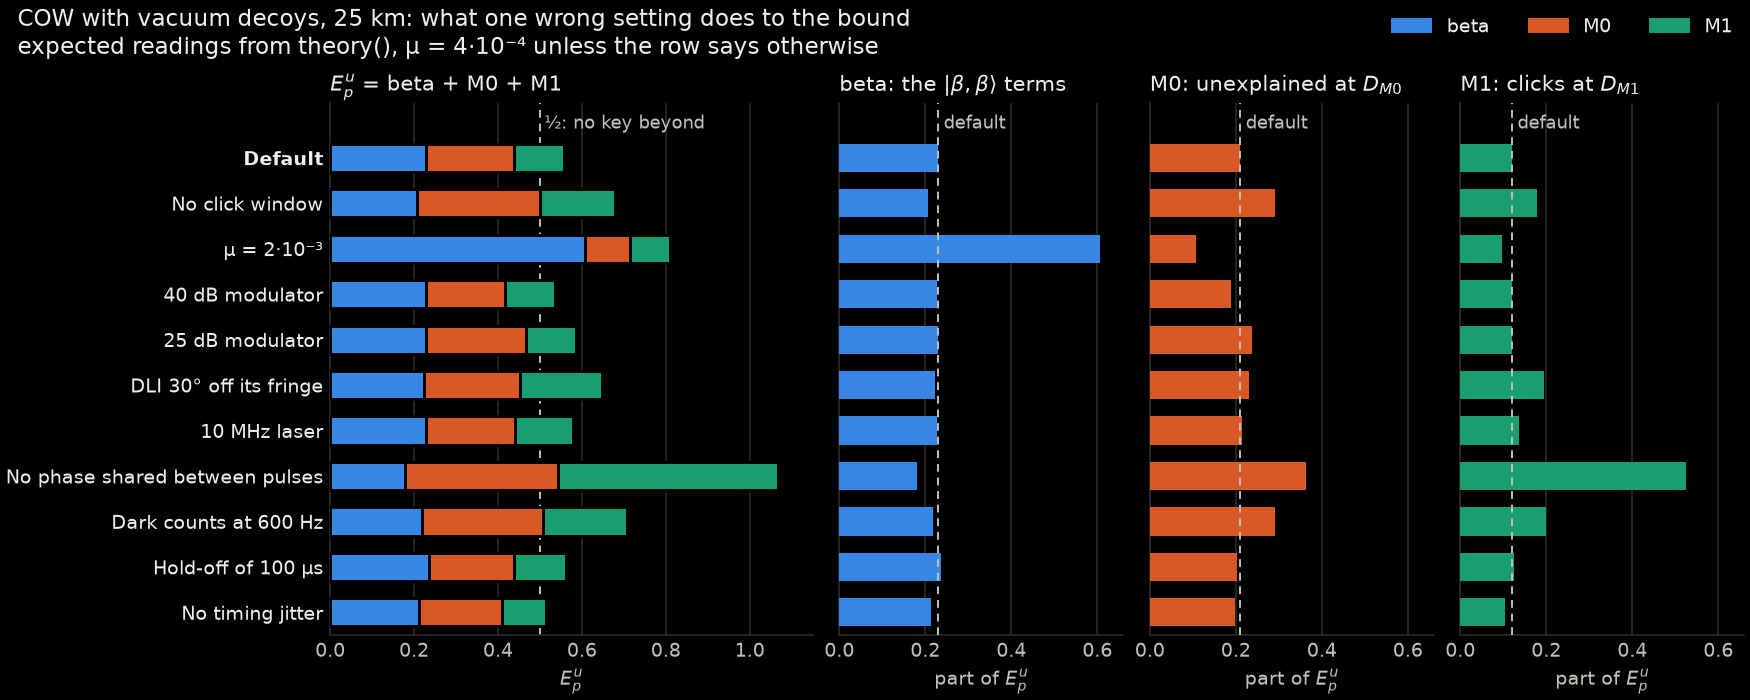
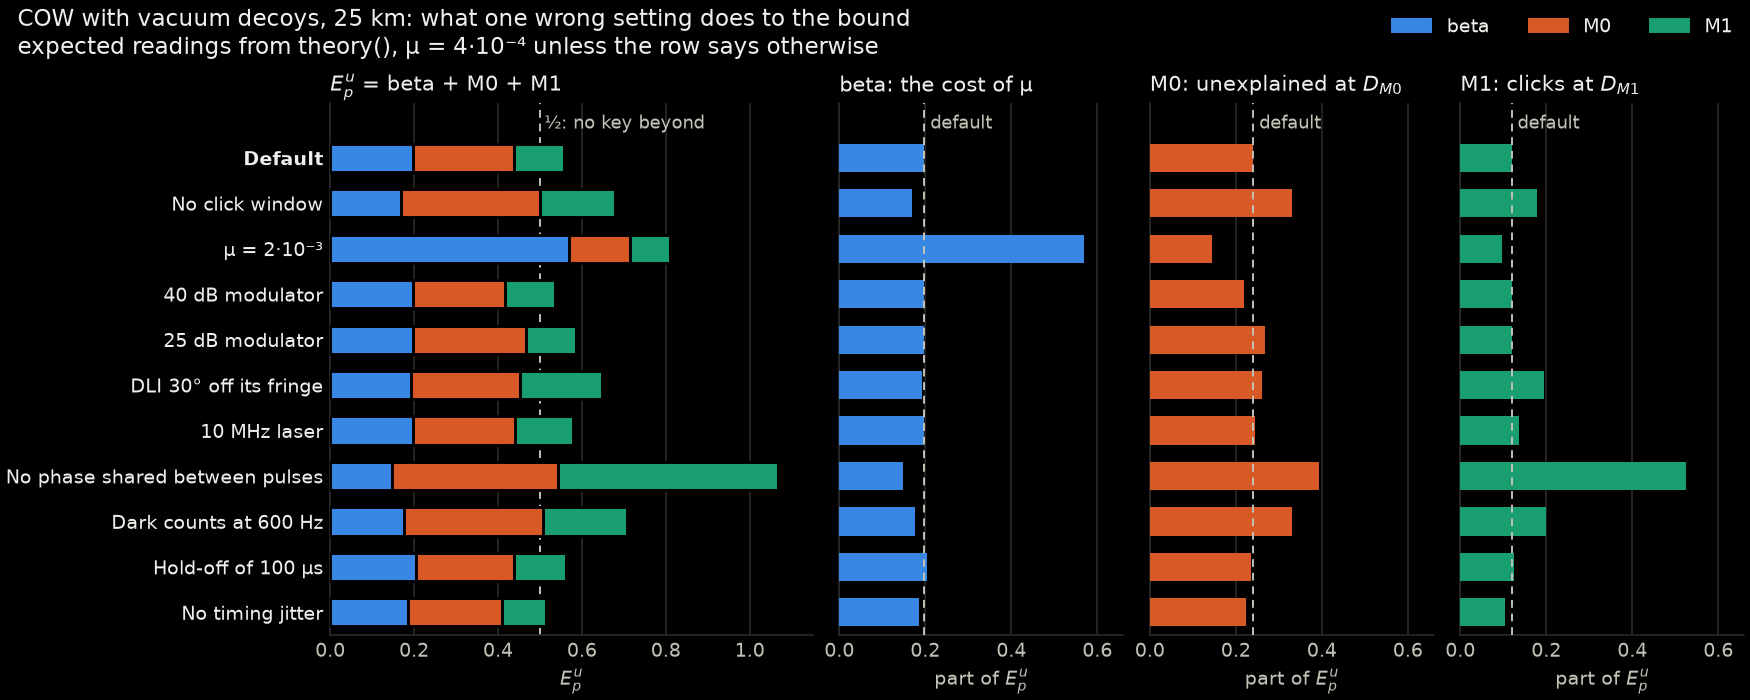
refactor(cow_vacuum): count the |β,β⟩–|0,0⟩ cross term at D_M0 in M0

diff --git a/examples/cow_vacuum/bound.py b/examples/cow_vacuum/bound.py
@@ -79,13 +79,18 @@ def phase_error(mu: float, g: Gains) -> float:
 def terms(mu: float, g: Gains) -> dict[str, float]:
     """E_p^u split by what sets each part of Eq. (7); the three add up to it.
 
-    * ``"beta"``: the |β,β⟩ terms, bounded with Q_ββ ≤ 1. Too high a μ for the
-      transmittance shows here.
+    * ``"beta"``: |β,β⟩'s own gain, bounded with Q_ββ ≤ 1, and its cross term with
+      |α,α⟩ at D_M0. Too high a μ for the transmittance shows here.
     * ``"M0"``: what the |α,α⟩ and |0,0⟩ gains at D_M0 leave unexplained of a single
-      pulse's. A modulator's leak (through Q_00^M0), lost interference and dark counts
-      show here.
-    * ``"M1"``: |α,α⟩ and |0,0⟩ clicks at D_M1, which should be dark: the laser's phase
-      noise, the DLI's phase and dark counts show here.
+      pulse's, and the cross term of |β,β⟩ with |0,0⟩ there. A modulator's leak
+      (through Q_00^M0), lost interference and dark counts show here.
+    * ``"M1"``: |α,α⟩ and |0,0⟩ clicks at D_M1, which should be dark, and their cross
+      terms with |β,β⟩: the laser's phase noise, the DLI's phase and dark counts show
+      here.
+
+    The split follows the fixes. On a perfect bench (no leak, no dark counts, full
+    interference) ``M0`` and ``M1`` go to zero, and ``beta`` is what is left: the cost
+    of μ at this transmittance.
     """
     den = 2 * (sum(g.q0a) + sum(g.qa0))
     if not den:
@@ -95,8 +100,8 @@ def terms(mu: float, g: Gains) -> dict[str, float]:
     aa0, aa1 = math.sqrt(g.qaa[0]), math.sqrt(g.qaa[1])
     v0, v1 = math.sqrt(g.q00[0]), math.sqrt(g.q00[1])
     return dict(
-        beta=nm * (e * nm / 4 + e * aa0 + v0) / den,
-        M0=(2 * (g.q0a[0] + g.qa0[0]) - (grow * aa0 - fall * v0) ** 2) / den,
+        beta=nm * e * (nm / 4 + aa0) / den,
+        M0=(2 * (g.q0a[0] + g.qa0[0]) - (grow * aa0 - fall * v0) ** 2 + nm * v0) / den,
         M1=((grow * aa1 + fall * v1) ** 2 + nm * (e * aa1 + v1)) / den,
     )
 

diff --git a/tests/test_cow_vacuum.py b/tests/test_cow_vacuum.py
@@ -405,8 +405,8 @@ def test_the_default_operating_point():
     assert th["E_p^u"] == pytest.approx(0.557, abs=0.001)
     assert th["E_b"] == pytest.approx(0.0132, abs=1e-4)
     assert th["Q"] == pytest.approx(8.35e-6, rel=0.01)
-    assert th["terms"]["beta"] == pytest.approx(0.229, abs=0.001)
-    assert th["terms"]["M0"] == pytest.approx(0.209, abs=0.001)
+    assert th["terms"]["beta"] == pytest.approx(0.198, abs=0.001)
+    assert th["terms"]["M0"] == pytest.approx(0.240, abs=0.001)
     assert th["terms"]["M1"] == pytest.approx(0.119, abs=0.001)
     assert th["spill"] == (cv.jitter_spill(200e-12, 0.5e-9),) * 3
     assert th["coherence"] == pytest.approx(math.exp(-math.pi * 1e6 / 1e9))
@@ -547,6 +547,16 @@ def test_settings_show_in_the_terms_of_the_bound():
     free = expected(cv.COWParams(dead_time=0.0))
     assert longer["Q"] < base["Q"] < 0.85 * free["Q"]
     assert abs(longer["E_p^u"] - free["E_p^u"]) < 0.02
+
+
+def test_a_perfect_bench_leaves_only_beta():
+    # the modulator at its limit, a laser of no width, quiet and sharp detectors
+    p = cv.COWParams(extinction_db=80.0, linewidth=0.0, dead_time=0.0)
+    perfect = expected(p, dark_count_rate=0.0, timing_jitter=0.0)
+    assert perfect["terms"]["M0"] == pytest.approx(0.0, abs=1e-3)
+    assert perfect["terms"]["M1"] == pytest.approx(0.0, abs=1e-6)
+    # the cost of μ at this transmittance, the same as on the default bench
+    assert perfect["terms"]["beta"] == pytest.approx(0.198, abs=0.001)
 
 
 def test_what_the_click_window_buys():

diff --git a/examples/cow_vacuum/settings.py b/examples/cow_vacuum/settings.py
@@ -43,7 +43,7 @@ SETTINGS = [
     ("No timing jitter", P(), 0.0, dict(timing_jitter=0.0)),
 ]
 PARTS = (  # bound.terms' keys, their colors and panel titles
-    ("beta", "#3987e5", r"beta: the $|\beta,\beta\rangle$ terms"),
+    ("beta", "#3987e5", "beta: the cost of μ"),
     ("M0", "#d95926", r"M0: unexplained at $D_{M0}$"),
     ("M1", "#199e70", r"M1: clicks at $D_{M1}$"),
 )

diff --git a/examples/cow_vacuum/README.md b/examples/cow_vacuum/README.md
@@ -39,9 +39,12 @@ resulting Eq. (7) into three parts that add up to $E_p^u$, each pointing at diff
 
 | Part | What it is | What raises it |
 | --- | --- | --- |
-| `beta` | the \|β,β⟩ terms, bounded with $Q_{\beta\beta} \le 1$ | too high a μ for the transmittance |
-| `M0` | what the \|α,α⟩ and \|0,0⟩ gains at D_M0 leave unexplained of a single pulse's | a modulator's leak, lost interference, dark counts |
-| `M1` | \|α,α⟩ and \|0,0⟩ clicks at D_M1, which should be dark | the laser's phase noise, the DLI's phase, dark counts |
+| `beta` | \|β,β⟩'s own gain, bounded with $Q_{\beta\beta} \le 1$, and its cross term with \|α,α⟩ at D_M0 | too high a μ for the transmittance |
+| `M0` | what the \|α,α⟩ and \|0,0⟩ gains at D_M0 leave unexplained of a single pulse's, and \|β,β⟩'s cross term with \|0,0⟩ there | a modulator's leak, lost interference, dark counts |
+| `M1` | \|α,α⟩ and \|0,0⟩ clicks at D_M1, which should be dark, and their cross terms with \|β,β⟩ | the laser's phase noise, the DLI's phase, dark counts |
+
+On a perfect bench (no leak, no dark counts, full interference) `M0` and `M1` go to zero, and `beta`
+is what is left: the cost of μ at this transmittance.
 
 With quiet detectors `beta` is most of it, and it grows with μ/η whatever Bob measures. So μ has to
 fall with the transmittance, which is where the paper's $R \propto \eta^2$ comes from. The bound also
@@ -147,17 +150,17 @@ wrong setting does to it:
 
 | Setting | $E_p^u$ | `beta` | `M0` | `M1` | V |
 | --- | --- | --- | --- | --- | --- |
-| Default | 0.557 | 0.229 | 0.209 | 0.119 | 0.938 |
-| No click window | 0.678 | 0.207 | 0.292 | 0.179 | 0.883 |
-| μ = 2·10⁻³ | 0.810 | 0.606 | 0.107 | 0.096 | 0.982 |
-| 40 dB modulator | 0.535 | 0.228 | 0.188 | 0.119 | 0.938 |
-| 25 dB modulator | 0.585 | 0.229 | 0.237 | 0.119 | 0.938 |
-| DLI 30° off its fringe | 0.649 | 0.223 | 0.230 | 0.196 | 0.808 |
-| 10 MHz laser | 0.579 | 0.227 | 0.214 | 0.138 | 0.911 |
-| No phase shared between pulses | 1.067 | 0.179 | 0.363 | 0.525 | 0.000 |
-| Dark counts at 600 Hz, the datasheet's maximum | 0.708 | 0.218 | 0.290 | 0.200 | 0.867 |
-| Hold-off of 100 µs, the datasheet's | 0.563 | 0.235 | 0.203 | 0.125 | 0.934 |
-| No timing jitter | 0.514 | 0.212 | 0.197 | 0.105 | 0.946 |
+| Default | 0.557 | 0.198 | 0.240 | 0.119 | 0.938 |
+| No click window | 0.678 | 0.169 | 0.330 | 0.179 | 0.883 |
+| μ = 2·10⁻³ | 0.810 | 0.568 | 0.145 | 0.096 | 0.982 |
+| 40 dB modulator | 0.535 | 0.198 | 0.219 | 0.119 | 0.938 |
+| 25 dB modulator | 0.585 | 0.197 | 0.269 | 0.119 | 0.938 |
+| DLI 30° off its fringe | 0.649 | 0.192 | 0.261 | 0.196 | 0.808 |
+| 10 MHz laser | 0.579 | 0.196 | 0.245 | 0.138 | 0.911 |
+| No phase shared between pulses | 1.067 | 0.148 | 0.394 | 0.525 | 0.000 |
+| Dark counts at 600 Hz, the datasheet's maximum | 0.708 | 0.176 | 0.332 | 0.200 | 0.867 |
+| Hold-off of 100 µs, the datasheet's | 0.563 | 0.203 | 0.235 | 0.125 | 0.934 |
+| No timing jitter | 0.514 | 0.185 | 0.225 | 0.105 | 0.946 |
 
 ![E_p^u stacked from beta, M0 and M1 for each setting, then each part on one scale: μ moves beta far more than any fault does, the modulator, the click window and dark counts move M0, and the DLI, the laser and dark counts move M1](../../docs/images/cow-vacuum-settings.png)
 
@@ -197,7 +200,7 @@ print(cv.run(blocks=20, seed=4).summary())
 ```
 COW with vacuum decoys over 25 km, μ = 0.0004, decoys 0.25 + 0.25, t_B = 0.5, 4,000,000 pairs (8,000,000 slots at 1000 MHz)
 sifted 16: Q 8.004e-06 (expected 8.349e-06) · E_b 0.0000 on the whole sifted key (expected 0.0132)
-E_p^u 1.440 ± 1.321 (expected 0.557): |β,β⟩ 0.240, M0 0.750, M1 0.450 (expected 0.229, 0.209, 0.119)
+E_p^u 1.440 ± 1.321 (expected 0.557): |β,β⟩ 0.240, M0 0.750, M1 0.450 (expected 0.198, 0.240, 0.119)
 |α,α⟩ at D_M0 1, D_M1 0 · |0,0⟩ at D_M0 0, D_M1 1 · V 1.0000 (expected 0.9382, not in the bound)
 boundaries where both pulses meet: D_M0 4, D_M1 0 · V 1.0000 (expected 0.9382, not in the bound)
 ```
@@ -224,7 +227,7 @@ at 250 blocks:
 | Boundary clicks where both pulses meet, at D_M0, D_M1 | 423, 14 | 399, 12.7 |
 | V inside the pairs, at the boundaries | 0.953, 0.936 | 0.938, 0.938 |
 | $E_p^u$ | 0.564 ± 0.037 | 0.557 |
-| `beta`, `M0`, `M1` | 0.232, 0.225, 0.106 | 0.229, 0.209, 0.119 |
+| `beta`, `M0`, `M1` | 0.196, 0.261, 0.106 | 0.198, 0.240, 0.119 |
 
 The comparison with the paper is in the main README, under
 [Checked against the literature](../../README.md#checked-against-the-literature).
